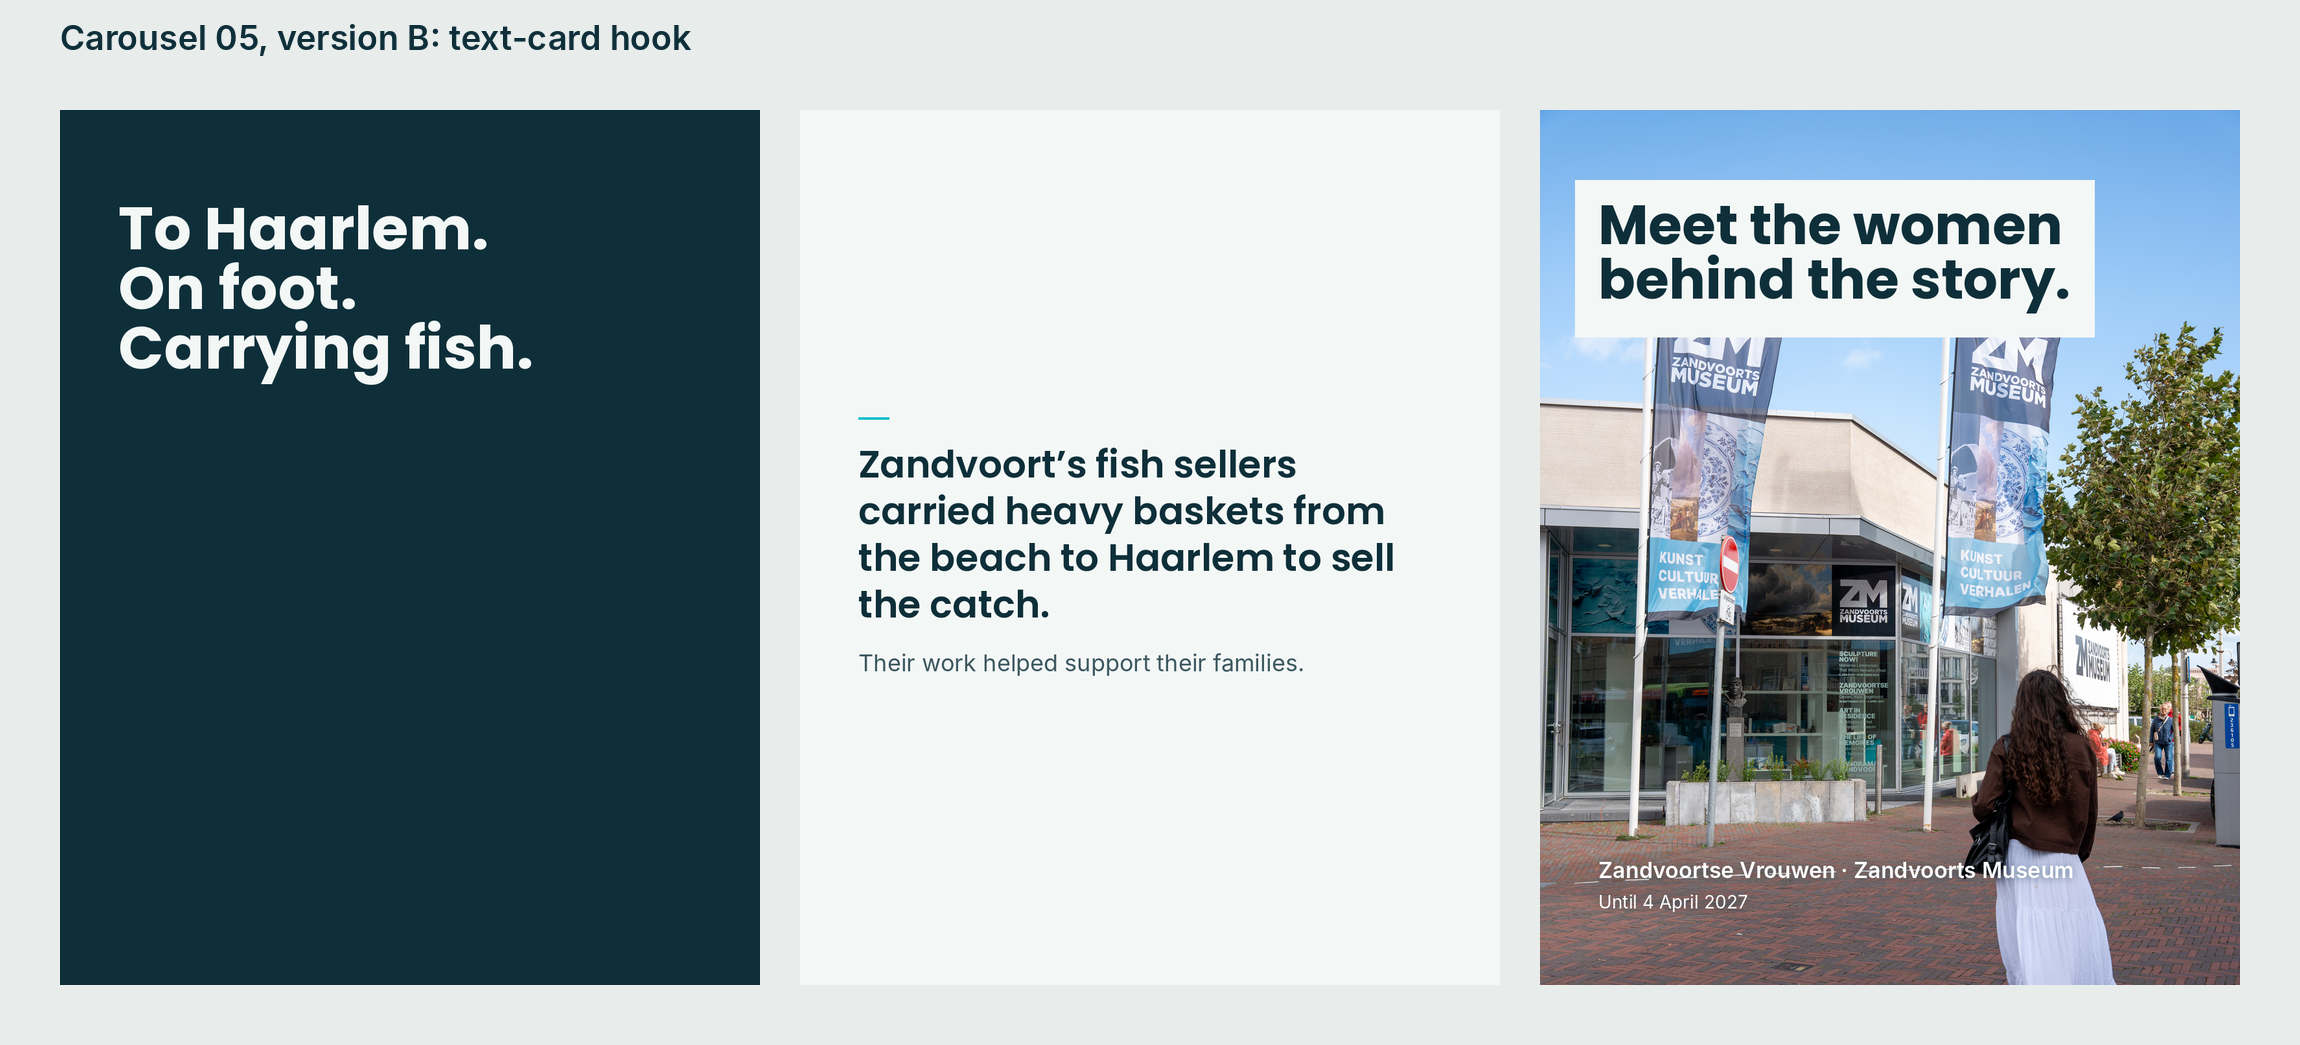
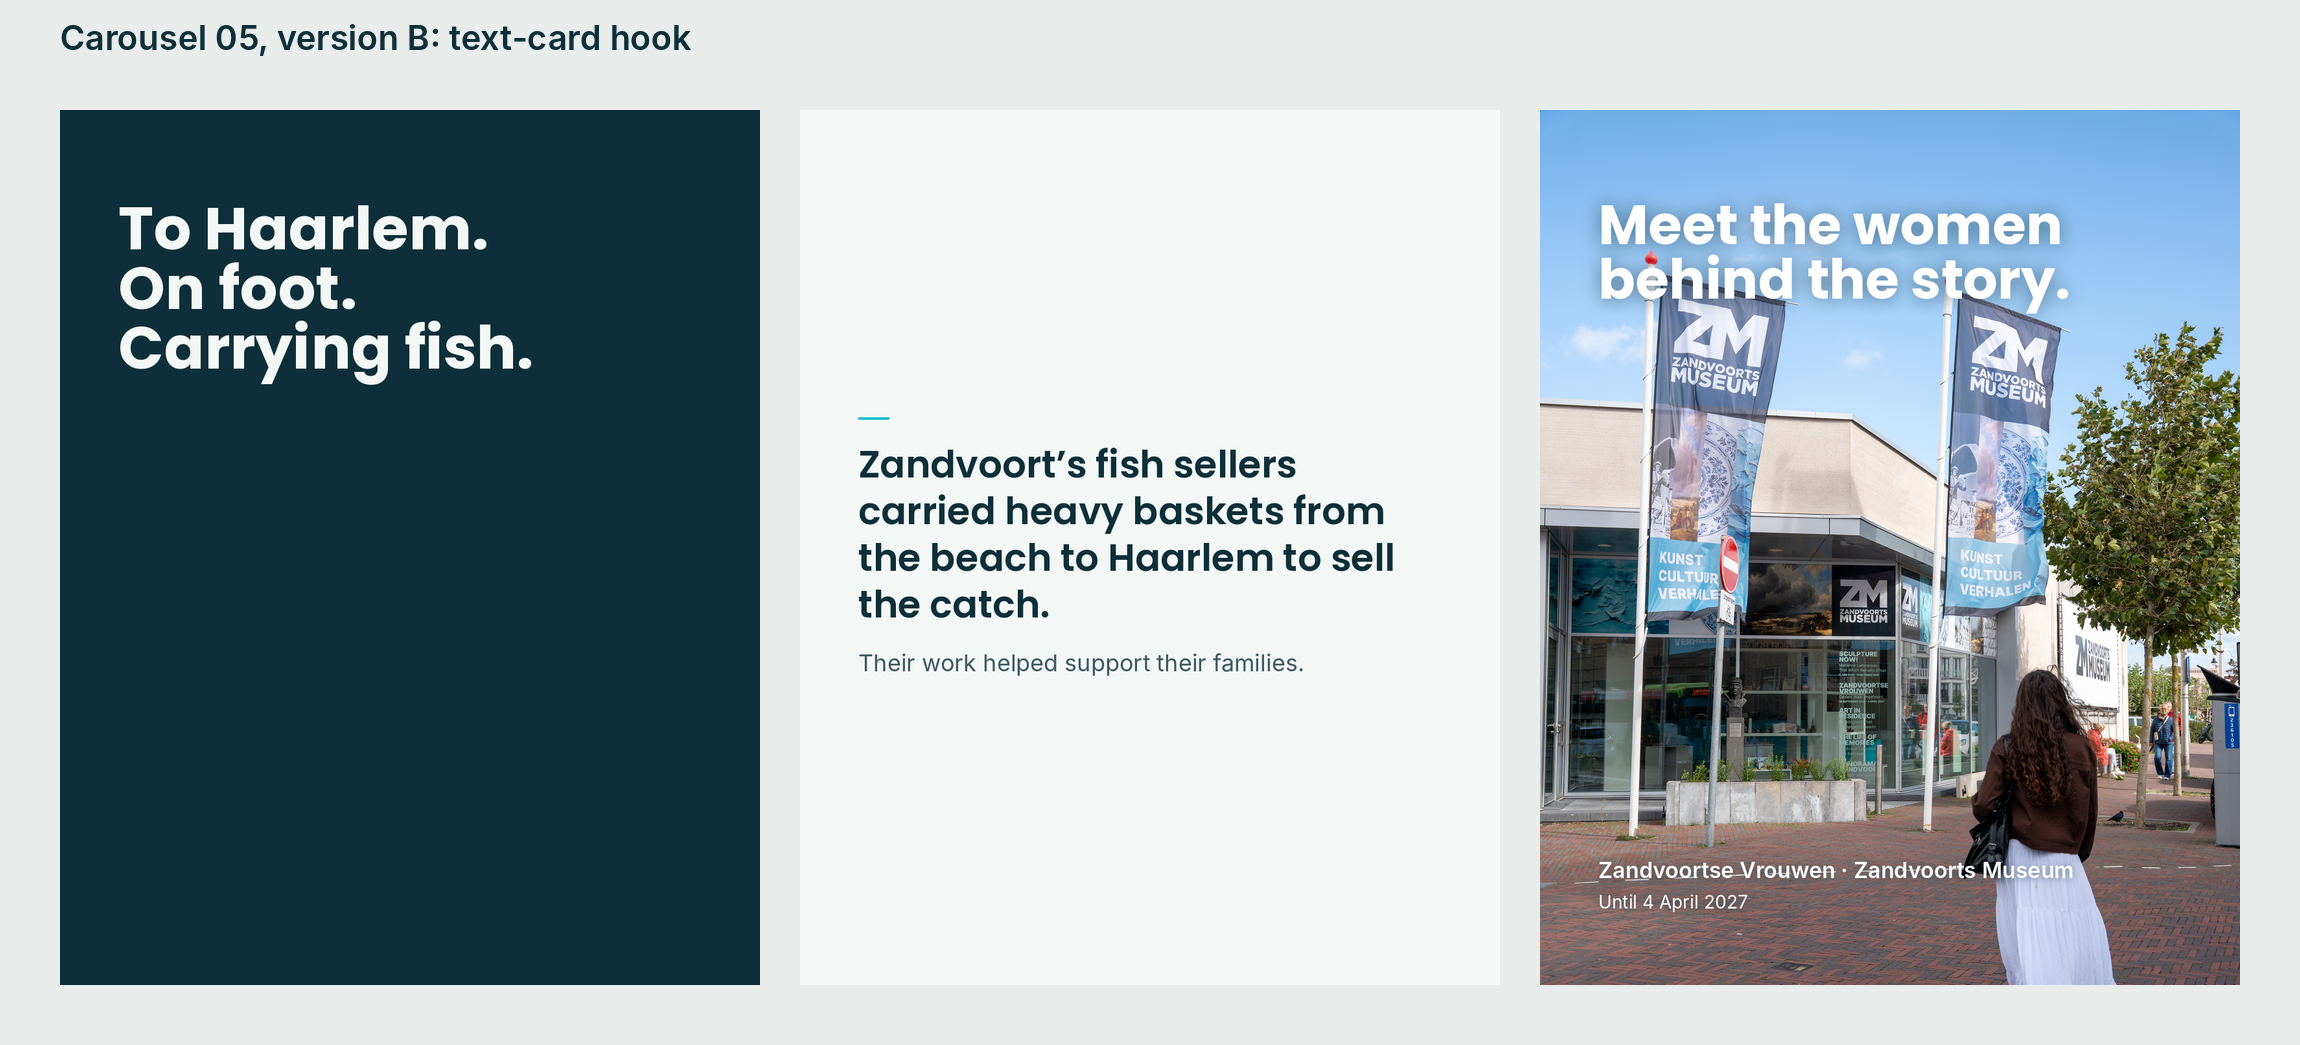
Carousel 05: white headlines; slide 2 variant with CC0 archive watercolour
Headlines follow the house template (white, soft text shadow, no box).
Adds slide 2 alternative with Wybrand Hendriks' watercolour of a
Zandvoort fish seller (Noord-Hollands Archief, CC0) and version C preview.

Claude-Session: https://claude.ai/code/session_01FcaFS8zarJbhtka3XNC7Xt

Changed region(s): [[0.6791, 0.1531, 0.9261, 0.3368]]

diff --git a/carousel05/build.py b/carousel05/build.py
@@ -54,7 +54,7 @@ PHOTOS = {
 }
 # Headline treatment on photos: "auto" picks white unless the area behind it is too
 # light for 3:1 (large-text WCAG), then falls back to Ocean on a small Mist panel.
-HEAD_MODE = {"ZM18": "auto", "ZM01": "auto"}
+HEAD_MODE = {"ZM18": "white", "ZM01": "white"}  # white as in the house template (requested)
 
 
 def font(path, size):
@@ -164,7 +164,9 @@ def photo_headline(im, lines, size, key, log):
         d.rectangle((box[0] - pad, box[1] - pad, box[2] + pad, box[3] + pad), fill=MIST)
         headline(d, lines, size, OCEAN)
     else:
-        headline(ImageDraw.Draw(im), lines, size, WHITE)  # template: clean white, no shadow
+        # Soft, wide Ocean text shadow (no box, no overlay) so white separates from light walls/sky.
+        soft_shadow(im, lambda md: headline(md, lines, size, 255), offset=2, blur=14, alpha=0.55)
+        headline(ImageDraw.Draw(im), lines, size, WHITE)
     return mode
 
 
@@ -250,6 +252,42 @@ def slide3(with_credit, log):
     return im, final
 
 
+ART = SRC / "Hendriks_Visvrouw_NHA_KNA006003500.jpg"
+# Wybrand Hendriks, fish seller from Zandvoort, watercolour c. 1797-1802.
+# Noord-Hollands Archief, inv. NL-HlmNHA 1100 KNA006003500. CC0 1.0 (via Wikimedia Commons).
+ART_BAND = 760          # height of the artwork band at the top of slide 2 (image variant)
+ART_TOP = 120           # source-scaled y where the band starts (keeps head to basket)
+
+
+def slide2_image():
+    """Slide 2 variant: the archive watercolour in a full-width band, the fact below on Mist."""
+    im = Image.new("RGB", (W, H), MIST)
+    art = srgb(Image.open(ART))
+    aw, ah = art.size
+    art = art.crop((round(aw * 0.035), round(ah * 0.02), round(aw * 0.965), ah))  # trim scan border/frame line
+    sc = W / art.width
+    art = art.resize((W, round(art.height * sc)), Image.LANCZOS)
+    im.paste(art.crop((0, ART_TOP, W, ART_TOP + ART_BAND)), (0, 0))
+    d = ImageDraw.Draw(im)
+    fm, fs = font(POPPINS_600, 58), font(INTER_400, 36)
+    main = wrap(FACT, fm, W - 2 * M)
+    sub = wrap(FACT_SUB, fs, W - 2 * M)
+    m_step, s_step = round(58 * 1.25), round(36 * 1.4)
+    asc_m, asc_s = fm.getbbox("Z")[1], fs.getbbox("T")[1]
+    y = ART_BAND + 64
+    d.rectangle((M, y, M + 47, y + 3), fill=TURQ)
+    y += 4 + 44
+    for i, l in enumerate(main):
+        d.text((M, y + i * m_step - asc_m), l, font=fm, fill=OCEAN, anchor="la")
+    y += (len(main) - 1) * m_step + 58 + 32
+    ocean80 = tuple(round(o * 0.8 + m * 0.2) for o, m in zip(OCEAN, MIST))
+    for i, l in enumerate(sub):
+        d.text((M, y + i * s_step - asc_s), l, font=fs, fill=ocean80, anchor="la")
+    bottom = y + (len(sub) - 1) * s_step + 36
+    assert bottom <= H - 60, bottom
+    return im
+
+
 def save(im, path):
     im.convert("RGB").save(path, "PNG", icc_profile=ImageCms.ImageCmsProfile(ImageCms.createProfile("sRGB")).tobytes())
 
@@ -296,11 +334,17 @@ def main():
     save(s1, OUT / "LB_Carousel05_slide1.png")
     save(s1a, OUT / "LB_Carousel05_slide1-alt_textcard.png")
     save(s2, OUT / "LB_Carousel05_slide2.png")
+    s2i = slide2_image() if ART.exists() else None
+    if s2i:
+        save(s2i, OUT / "LB_Carousel05_slide2-alt_artwork.png")
     save(s3, OUT / "LB_Carousel05_slide3.png")
     side_by_side([s1, s2, s3], OUT / "LB_Carousel05_side-by-side_photo-hook.png",
                  "Carousel 05, version A: photo hook (ZM18)")
     side_by_side([s1a, s2, s3], OUT / "LB_Carousel05_side-by-side_textcard-hook.png",
                  "Carousel 05, version B: text-card hook")
+    if s2i:
+        side_by_side([s1, s2i, s3], OUT / "LB_Carousel05_side-by-side_photo-hook_artwork.png",
+                     "Carousel 05, version C: photo hook + archive artwork on slide 2")
     grid_check(s1, OUT / "LB_Carousel05_gridcheck_photo.png")
     grid_check(s1a, OUT / "LB_Carousel05_gridcheck_textcard.png")
     # Crops for the design canvas (photo only, no type).

diff --git a/carousel05/notes.md b/carousel05/notes.md
@@ -9,8 +9,9 @@
 | `LB_Carousel05_slide1.png` | hook, photo ZM18 |
 | `LB_Carousel05_slide1-alt_textcard.png` | alternative hook: Mist text on Ocean, no photo |
 | `LB_Carousel05_slide2.png` | the fact, Ocean on Mist |
+| `LB_Carousel05_slide2-alt_artwork.png` | the fact with an archive watercolour of a Zandvoort fish seller above it |
 | `LB_Carousel05_slide3.png` | where to see it, photo ZM01 |
-| `LB_Carousel05_side-by-side_photo-hook.png` / `_textcard-hook.png` | the full set with each slide-1 version |
+| `LB_Carousel05_side-by-side_photo-hook.png` / `_textcard-hook.png` / `_photo-hook_artwork.png` | the full set with each slide-1 version, and with the artwork version of slide 2 |
 | `LB_Carousel05_gridcheck_photo.png` / `_textcard.png` | slide 1 in a 3-column profile grid, plus a tile at real phone size (about 124 px wide) |
 
 All files are 1080 × 1350 sRGB PNGs, except the previews.
@@ -30,10 +31,17 @@ Both sources are 4672 × 7008 (2:3). The 4:5 crop uses the full width at 4672 ×
 - The only processing is EXIF rotation, conversion from the embedded ICC profile to sRGB and a Lanczos resize. There are no filters, grading or retouching.
 
 ## Legibility compromises
-- **Headlines on both photos use the Mist panel.** White against the lightest 10% of the photo behind the headline measures 1.85:1 on ZM18 (white museum walls) and 1.57:1 on ZM01 (pale sky). Both are under the 3:1 minimum for large text, so the briefed fallback applies: Ocean #0E2F39 on a small Mist #F3F7F6 panel, padded 36 px, with no overlay or gradient. The panel's top-left edge sits at x 54 so the text itself stays on the 90 px line on every slide.
-- On ZM01 the bottom of the headline panel overlaps the tops of both flags slightly; the ZM marks on the flags stay readable.
-- **Slide 3 label:** white Inter with a very soft Ocean text shadow (2 px, 6 px blur, 50%), the same treatment as Reel 5. "…Museum" runs over the visitor's bag and skirt, and the shadow keeps it readable. It's a text effect, not a box.
-- **Grid check:** the three-line hook stays readable at phone size on both versions. The text card is the stronger thumbnail (higher contrast, fewer competing details).
+- **Headlines are white, as in the house template (requested).** White against the lightest 10% of the photo behind the headline measures only 1.85:1 on ZM18 (white museum walls) and 1.57:1 on ZM01 (pale sky). To keep it readable without a box, overlay or gradient, the headline has a soft, wide Ocean text shadow (2 px down, 14 px blur, 55%). If it still reads too faint, the fallback is `HEAD_MODE = "panel"` in `build.py`: Ocean on a small Mist panel.
+- **Slide 1:** in every 4:5 crop of ZM18, the history panel fills the upper third, so the white headline crosses the panel's title ("HET ZANDVOORTS MUSEUM"). It isn't aligned to or pointing at any image or line of text, but it does sit on the panel.
+- **Slide 3:** the headline overlaps the top of the left flag. "…Museum" in the label runs over the visitor's bag and skirt; its soft shadow keeps it readable.
+- **Grid check:** the photo hook is noticeably weaker as a thumbnail than the text card.
+
+## Slide 2 artwork (alternative)
+- Wybrand Hendriks (1744–1831), watercolour of a fish seller from Zandvoort with a basket, c. 1797–1802. Noord-Hollands Archief, Beeldcollectie Haarlem, inv. NL-HlmNHA 1100 KNA006003500. Licence: **CC0 1.0** (public domain dedication), via Wikimedia Commons: <https://commons.wikimedia.org/wiki/File:Visvrouw_Malle_Kee,_Inventarisnummer_NL-HlmNHA_1100_KNA006003500.JPG>. No credit is legally required. A courtesy line ("Wybrand Hendriks, c. 1800 · Noord-Hollands Archief") in the post caption is good practice.
+- The archive title names her by her nickname, so the slide doesn't name or caption her.
+- The crop is a 1080 × 760 band from head to basket, with the scan border trimmed. It uses the 960 px Commons version enlarged 1.125×, because the full-size original (1194 × 1918) was rate-limited from here. For the sharpest result, download the original from the Commons page and put it at `work/src/Hendriks_Visvrouw_NHA_KNA006003500.jpg`.
+- The original brief said slide 2 should have no artwork. This version was added on request, and the text-only slide 2 is kept.
+- Also checked: Rijksmuseum RP-F-2001-7-1107B-67, "Vissersvrouw in Zandvoort" (Maurice Bucquet, c. 1890, CC0). It's a page from an 1895 photography book where the fish seller is only a small vignette, so it isn't usable at slide size.
 
 ## Rebuild
 Put the originals in `work/src/` (gitignored) and the fonts in `work/fonts/` (Poppins Bold and SemiBold from google/fonts `ofl/poppins`; Inter Regular and SemiBold OTF), then run `python3 build.py`.
